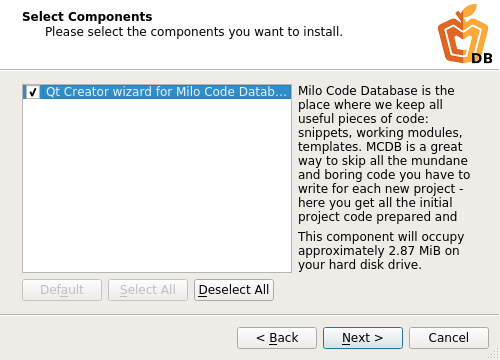
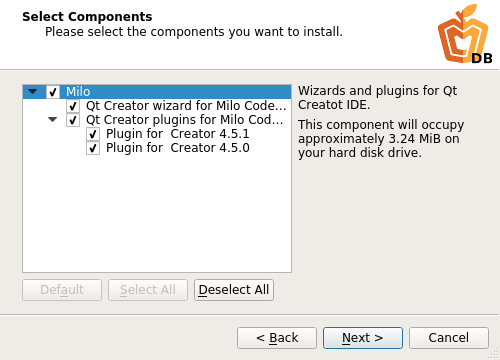
Updated README.md according to changes are related to the inclusion of plugins

Changed region(s): [[0.6, 0.2139, 0.93, 0.7639], [0.03, 0.2139, 0.57, 0.4278]]

diff --git a/README.md b/README.md
@@ -3,17 +3,19 @@
 ## Overview
 
 The installer installs Milo Code Database as a wizard for the Qt Creator. This means that you can create any projects of Milo Code Database from the Qt Creator.
+Also addition plugin will be installed. This plugin used for pages customization on the Qt Creator wizard.
 
 
 ### Installation
 
-Installation process is very simple and typical. After the installer was running you will see **Introduction Page** which describes about location where whole content of the wizard will be installed.
-
-![Introduction Page](doc/img/introduction_page.png "Introduction Page")
-
-Then **Component Selection Page** is appear which lists the components available for installation, presently is only **Qt Creator wizard for Milo Code Database** available.
+Installation process is very simple and typical. Most important part of the installer is **Component Selection Page** which lists the components available for installation.
 
 ![Component Selection Page](doc/img/components_page.png "Component Selection Page")
+
+* **Qt Creator wizard for Milo Code Database** - the Qt Creator wizard for projects creation by templates of Milo Code Database. 
+* **Qt Creator plugins for Milo Code Database** - plugins which are used for customization Summary page of the Qt Creator wizard.
+
+**NOTE**: you must select at least one plugin according to your version of the Qt Creator, otherwise the wizard will not work.
 
 On the license check page, you must accept the terms of the license agreement for the installation to continue.
 
@@ -30,9 +32,17 @@ Then as usual, specify working directory, set project name and select kits for b
 
 ![Project Templates page](doc/img/project_templates_page.png "Project Templates page")
 
-### TODO: add description about custom summary page with additional operations for git
+Summary page contains several new controls for additional git operations.
 
-When you have completed the steps, Qt Creator automatically generates the project with required subprojects, as defined by the wizard.
+![Summary page](doc/img/summary_page.png "Custom Summary page")
+
+On this page you can:
+
+* make initial commit
+* add specified repository URL to remote
+* push to remote
+
+When you have completed the steps, Qt Creator automatically generates the project with required subprojects, as defined by the wizard and runs selected git operations.
 
 
 ### Locating wizard
@@ -41,6 +51,12 @@ Qt Creator searches for wizards in the shared directory and in the local user's 
 
 * $HOME/.config/QtProject/qtcreator/templates/wizards on Linux and macOS
 * %APPDATA%\QtProject\qtcreator\templates\wizards on Windows
+
+Plugins will be installed into Qt Creators' user plugin path:
+
+* %LOCALAPPDATA%\QtProject\qtcreator\plugins on Windows Vista and later
+* $HOME/.local/share/data/QtProject/qtcreator/plugins on Linux
+* $HOME/Library/Application Support/QtProject/Qt Creator/plugins on OS X
 
 
 ## Project Templates
@@ -57,7 +73,8 @@ Detailed information about each project template is described [here](https://doc
 ### Building the installer
 
 To build the installer you need to build binarycreator tool from [here](https://github.com/VMironiuk/installer-framework.git) first. This version of the binarycreator contains some additional operations which are necessary for the proper work of the installer. [README.md](https://github.com/VMironiuk/installer-framework/blob/master/README) file contains detailed instruction how to build Qt Installer Framework, with useful tools such as binarycreator, from sources.
-Wnen the binarycreator will be built, go to the root directory of this repository (it's must be milo-qtcreator-wizard-installer directory, if you didn't change the name during cloning) and enter command:
+When the binarycreator will be built, get libMilo.so (Milo.dll) files from [here](TODO: add ref) then put this files into, for example, milo-qtcwizard-installer/packages/com.milosolutions.milo.plugins.4.5.1/data/4.5.1, directory for version of the Qt Creator 4.5.1 (do the same for other versions).
+After all go to the root directory of this repository (it's must be milo-qtcreator-wizard-installer directory, if you didn't change the name during cloning) and enter command:
 ```
 PATH_TO_YOUR_BINARYCREATOR/binarycreator -c config/config.xml -p packages MiloInstaller
 ```
